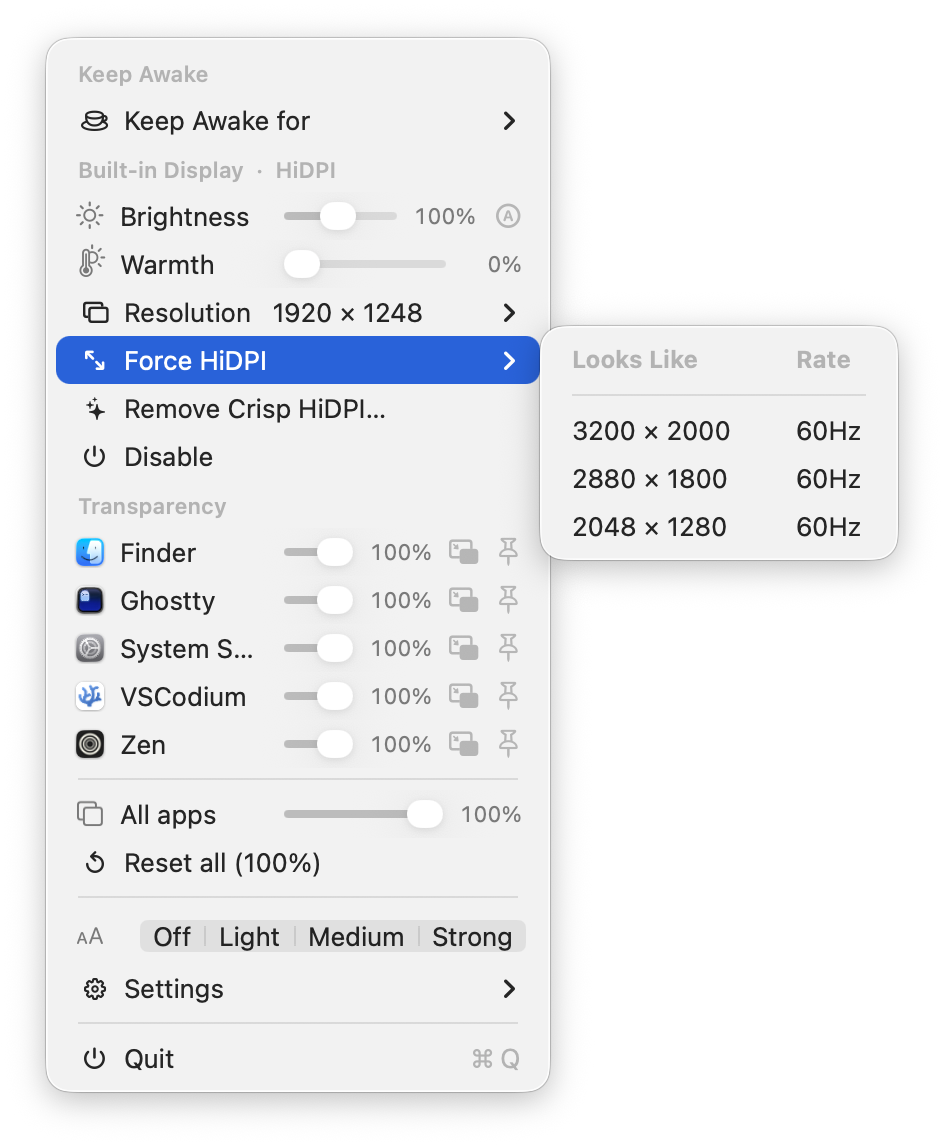
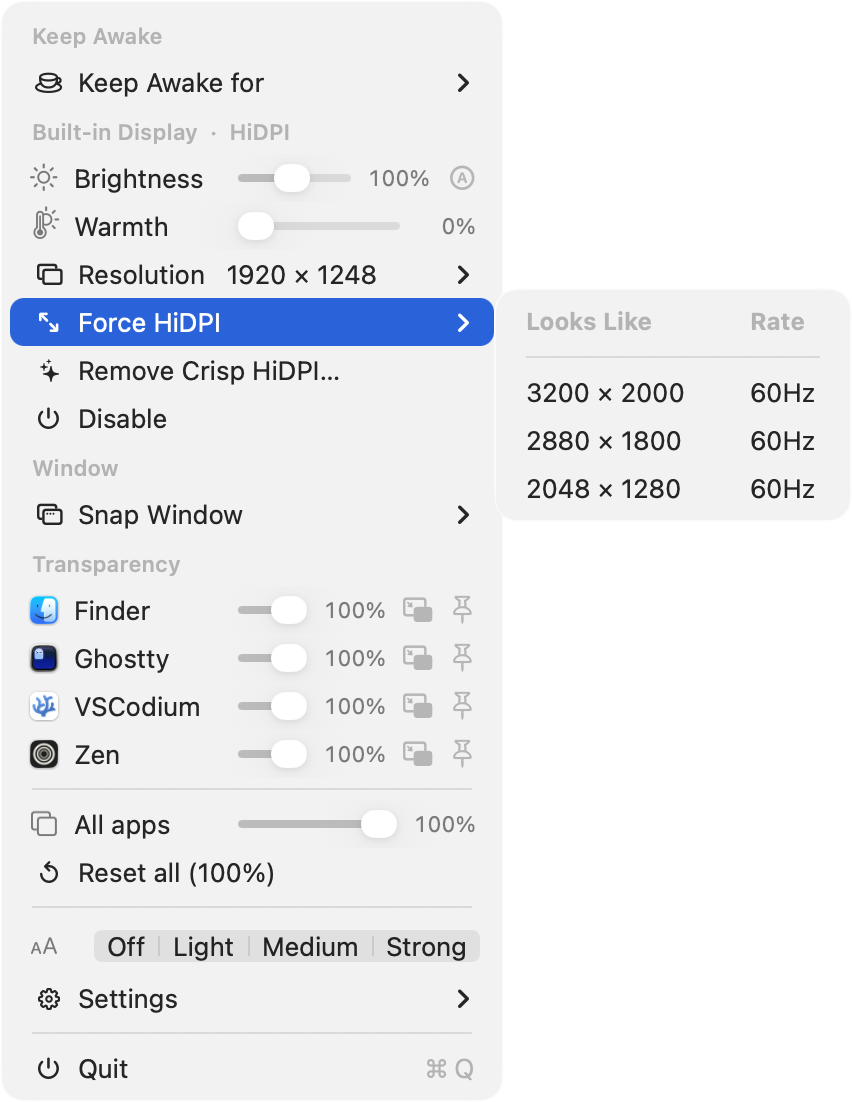
docs: refresh all screenshots to current UI
Recapture every menu/submenu from the live app so they reflect the latest
state — main menu with the Window section, Snap Window glyph cascade,
keep-awake, resolution, Force HiDPI, and Settings (now showing the Window
snapping toggles). Replace the menu-bar mug shot with a two-state image:
empty 'idle' cup vs filled 'keeping awake' cup.

diff --git a/README.md b/README.md
@@ -44,9 +44,9 @@ The menu-bar icon is an interactive **coffee mug**: left-click toggles keep-awak
 
 ## 📸 Screenshots
 
-The menu-bar mug:
+The menu-bar mug — an empty cup when idle, filled while keeping your Mac awake (left-click to toggle, right-click for the menu):
 
-<p align="center"><img src="assets/screenshots/menubar.png" height="26" alt="Menu-bar mug icon" /></p>
+<p align="center"><img src="assets/screenshots/menubar.png" width="380" alt="Menu-bar mug icon — empty when idle, filled when keeping awake" /></p>
 
 The menu — per-display **Brightness** (with the inline **Ⓐ** auto-brightness toggle) and **Warmth** sliders, a **Window** snapping section, and per-app **Transparency** rows with frosted-glass, keep-on-top, and picture-in-picture toggles:
 
